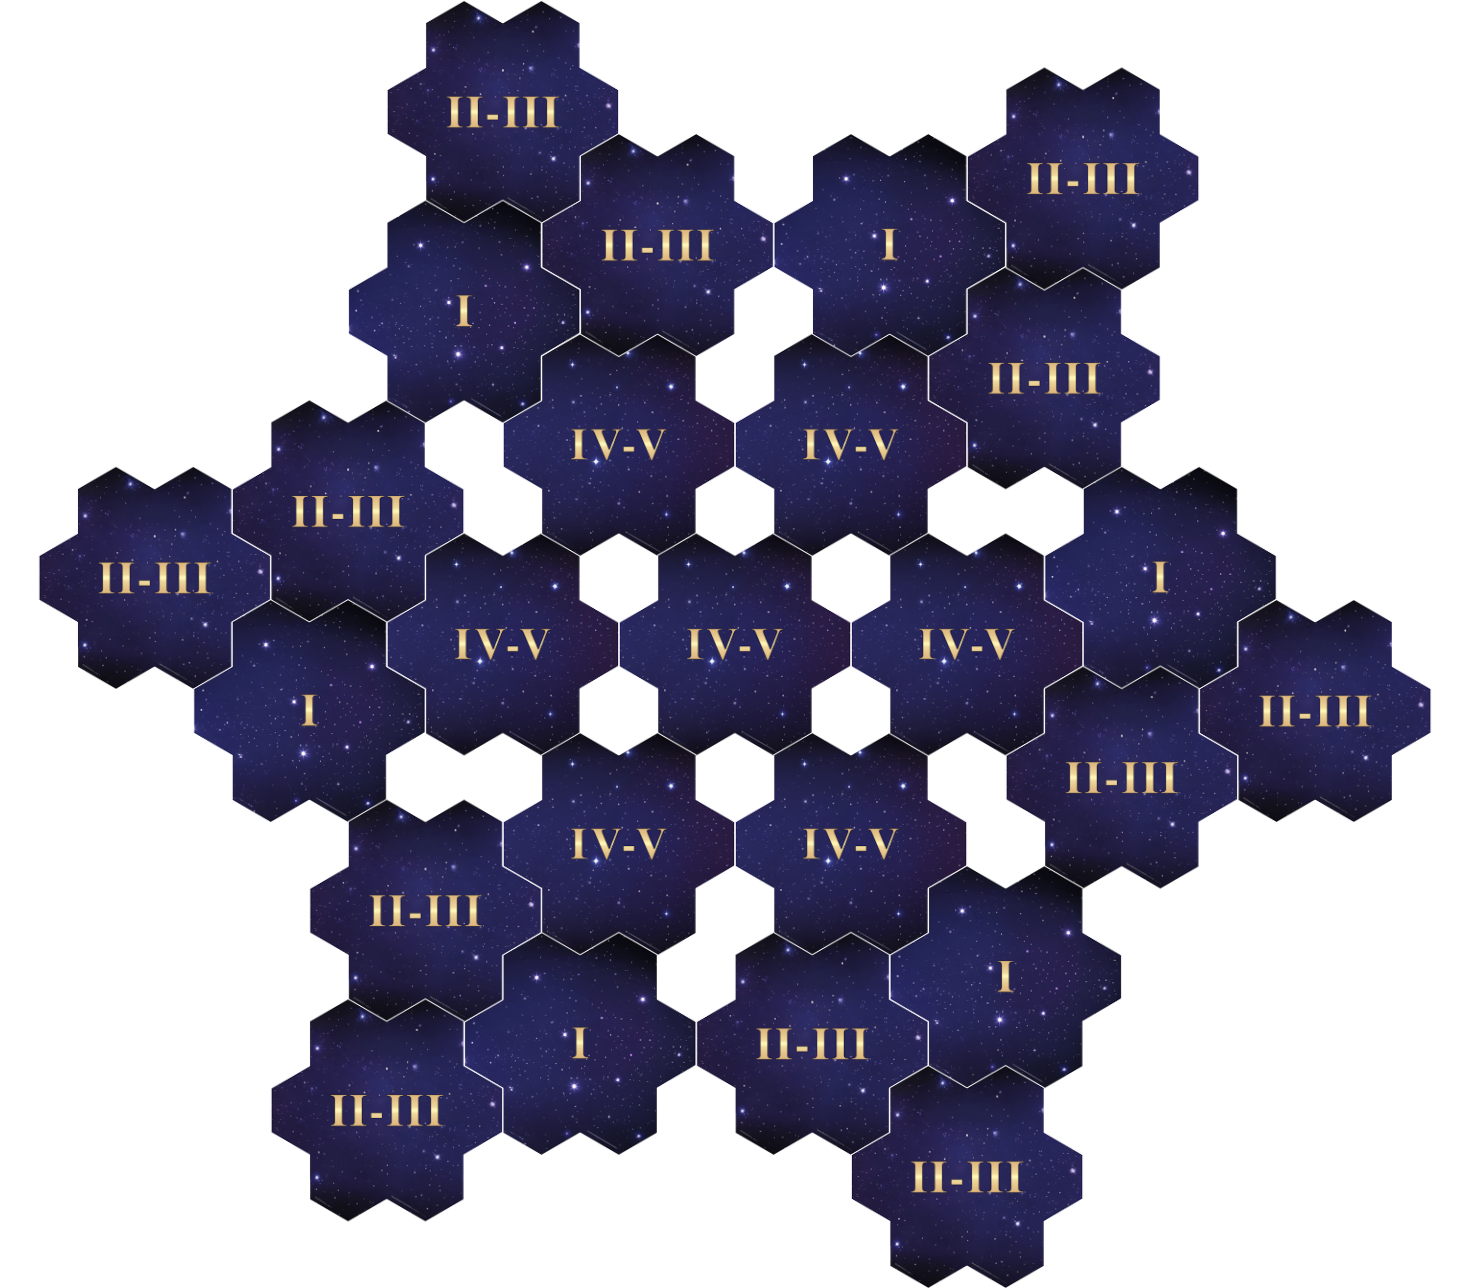
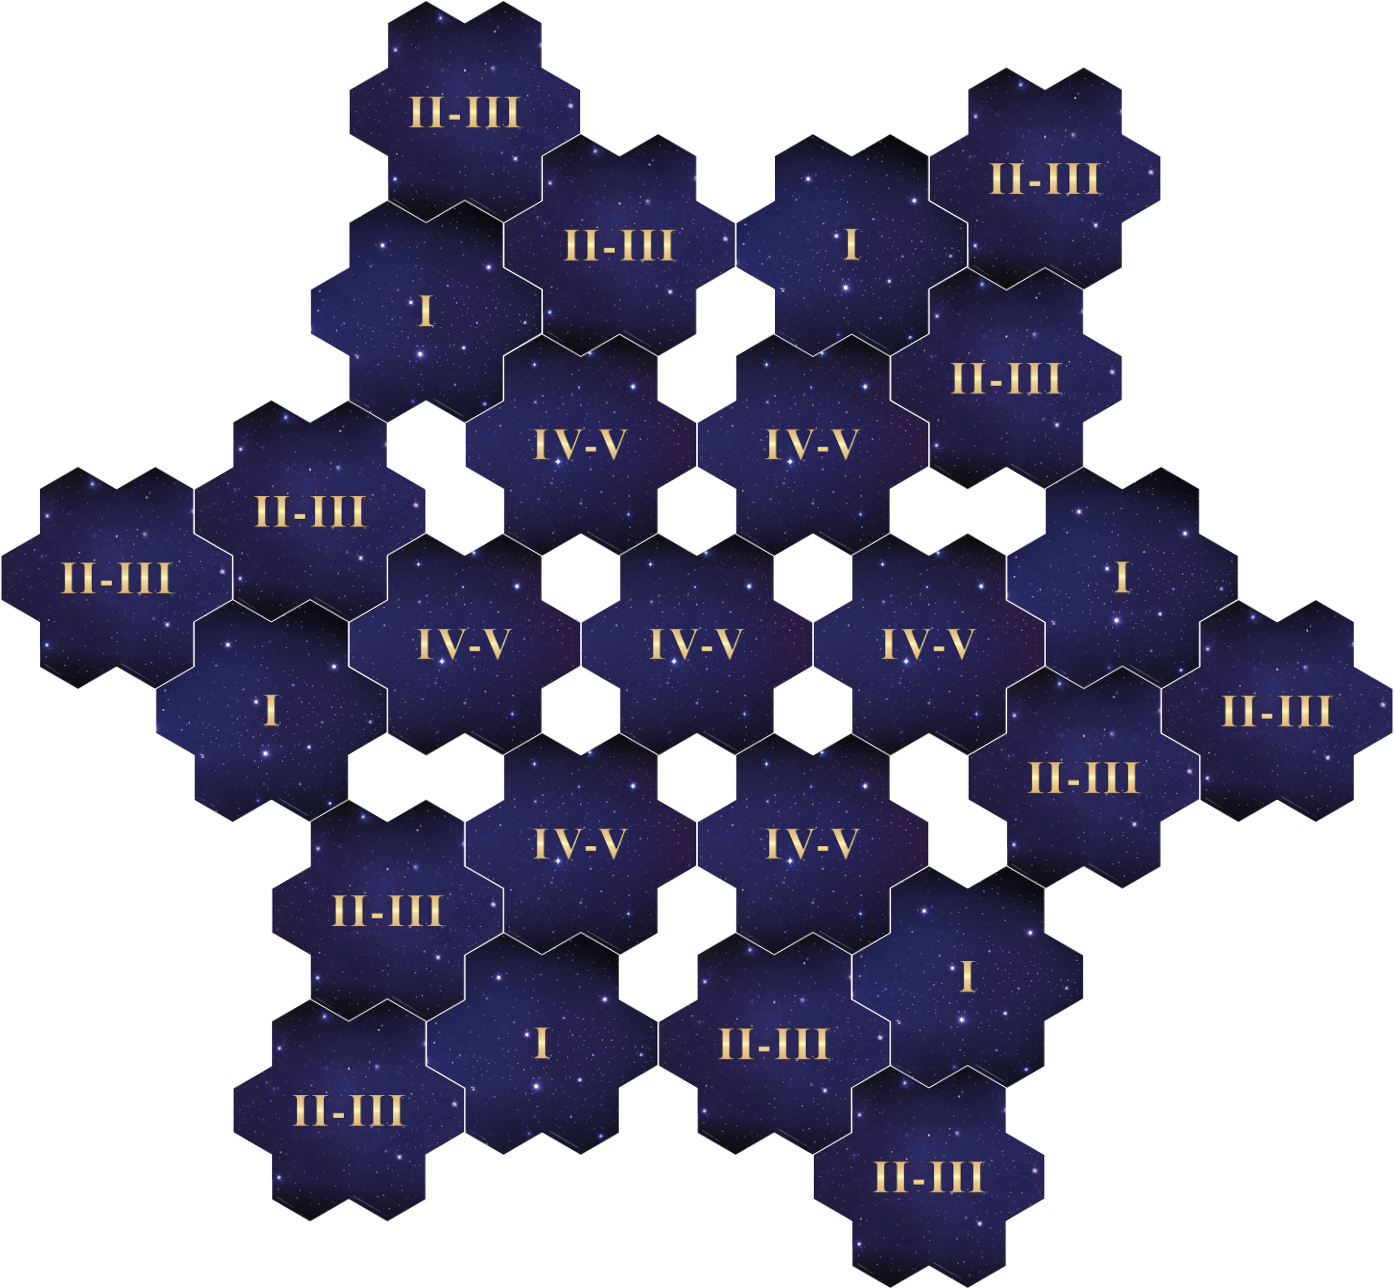
Adjust astral map layout

diff --git a/draft-scenarios/clash/astral_run.tex b/draft-scenarios/clash/astral_run.tex
@@ -1,7 +1,7 @@
 % !TeX spellcheck = en_US
 \addscenariosection{1}{Clash/Alliance Scenario}{Astral Run}{\images/astral.png}
 
-\begin{multicols}{2}
+\begin{multicols*}{2}
 
 \textbf{Author:} LAAMAKALA
 
@@ -88,14 +88,13 @@ If no player has achieved an immediate victory, the player with the most Victory
   \item An \textbf{Astral Gate} cannot be entered from a different Map Tile. When a Hero enters an Astral Gate, they are teleported to a different, randomly selected activated Astral Gate on the Map, arriving on a Field adjacent to it.
   \item Instead of teleporting randomly, a player may reduce 1 Unit's \svg{health_points} to 0 to choose the destination Astral Gate.
 \end{itemize}
-  
-  \begin{center}
-  \vspace*{\fill}
-  \includegraphics[width=1.1\linewidth]{\maps/astral_run.png}
+
+\vspace*{\fill}
+\begin{center}
+  \includegraphics[width=1.16\linewidth]{\maps/astral_run.png}
   \captionof{figure}{\textbf{SCENARIO MAP LAYOUT}}
-  \vspace*{\fill}
-  \end{center}
-  
+\end{center}
+
 \columnbreak
 
 \begin{itemize}
@@ -108,11 +107,10 @@ If no player has achieved an immediate victory, the player with the most Victory
 \end{itemize}
 
 \begin{center}
-  \vspace*{\fill}
-  \vspace*{\fill}
-  \includegraphics[width=1.1\linewidth]{\maps/astral_run_short.png}
-  \captionof{figure}{\textbf{SHORT GAME MAP LAYOUT}}
-  \vspace*{\fill}
+  \hspace*{-2em}\includegraphics[width=1.16\linewidth]{\maps/astral_run_short.png}
+  \vspace*{-1em}
+  \hspace*{2em}\captionof{figure}{\textbf{SHORT GAME MAP LAYOUT}}
 \end{center}
+\vspace*{\fill}
 
-\end{multicols}\\
+\end{multicols*}
